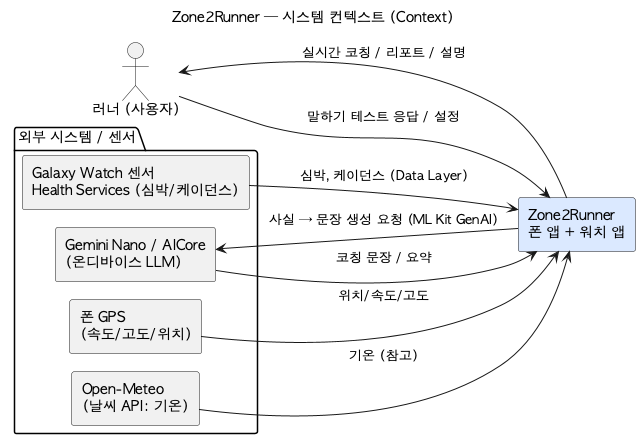
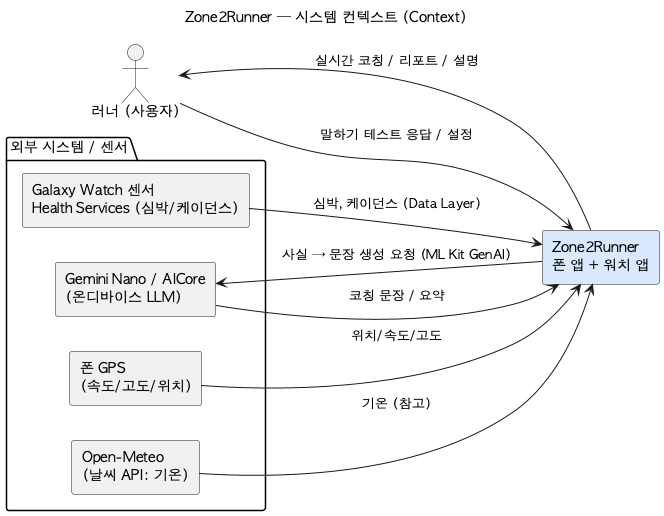
docs(arch): 아키텍처 도식 graphviz 레이아웃으로 교체 + brew 권한 해결법 문서화
- 원인: 네트워크/샌드박스 아님. /opt/homebrew가 사용자 소유 아님(권한) → brew 설치 실패
- 해결: sudo chown -R $(whoami) /opt/homebrew 후 brew install graphviz (또는 micromamba user-local)
- graphviz(dot 14.1.2) user-local 설치로 렌더 → smetana보다 깔끔한 직교 레이아웃 PNG로 교체
- puml에서 smetana 프래그마 제거(graphviz 기본), README에 fallback 안내

diff --git a/arch/diagrams/README.md b/arch/diagrams/README.md
@@ -4,7 +4,10 @@
 
 - **표기법**: UML 컴포넌트/배포 다이어그램 + C4 컨텍스트. `«...»` = 강의 표준 컴포넌트 유형(스테레오타입), 박스 = 우리 구현, 원통 = 저장소, 실선 = 데이터 흐름, 점선 = 제어(HITL/HOTL/LLM 서빙/적응).
 - **소스**: `.puml`(편집본). **렌더**: `.png`.
-- **렌더 방법**: `java -jar plantuml.jar -tpng arch/diagrams/*.puml` — 각 파일 상단 `!pragma layout smetana`로 **Graphviz(dot) 없이** 순수 자바 레이아웃으로 렌더된다(설치 불필요). VS Code PlantUML 확장이나 plantuml.com 서버로도 가능.
+- **렌더 방법**: `java -jar plantuml.jar -tpng arch/diagrams/*.puml`. 기본은 **Graphviz(dot)** 레이아웃(더 깔끔). VS Code PlantUML 확장이나 plantuml.com 서버로도 가능.
+- **Graphviz(dot)가 없으면** 두 가지 중 하나:
+  - (a) 설치: `brew install graphviz`. 만약 `Directory not writable /opt/homebrew` 에러가 나면, brew 프리픽스 소유권이 어긋난 것 → 1회 `sudo chown -R $(whoami) /opt/homebrew` 후 다시 `brew install graphviz`. (sudo 없이도 `micromamba create -p ./gv -c conda-forge graphviz` 로 user-local 설치 가능.)
+  - (b) 설치 없이: 각 `.puml` 최상단에 `!pragma layout smetana` 한 줄 추가 → PlantUML 내장 순수 자바 레이아웃으로 렌더(레이아웃은 약간 거침).
 
 ## 1. 시스템 컨텍스트 (Context)
 시스템 경계와 외부 액터(사용자/워치 센서/Gemini Nano/GPS/날씨 API).
